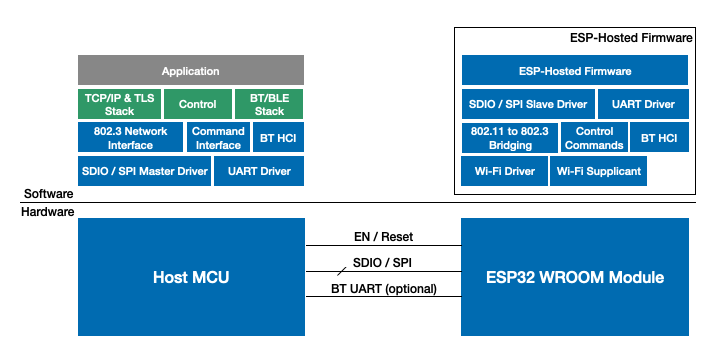
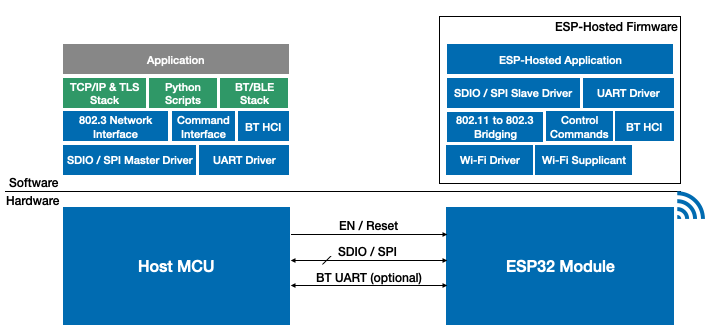
Update documentation
-- Add more information about design
	-- Ensure consistent naming of terminologies

Changed region(s): [[0.0, 0.0302, 0.9902, 0.997], [0.1857, 0.7553, 0.3404, 0.8459], [0.6188, 0.0604, 0.6498, 0.0906]]

diff --git a/docs/Design.md b/docs/Design.md
@@ -1,13 +1,56 @@
+# Architecture
+Following diagram depicts s/w and h/w components that are part of ESP hosted solution. This document briefly explains the software components that are part of this system.
+
+![alt text](docs/esp-hosted-block-diagram.png "ESP-Hosted Block Diagram").
+
+## The Host Software
+The host software consists of the host driver and a control path implementation.
+
+### The Host Driver
+The host driver consists of following:
+1. 802.3 Network Interface
+- The driver registers a network interface with linux kernel and implements a data path to allow exchange of 802.3 frames with ESP module.
+- It provides 2 network interfaces to host: ethsta0 and ethap0.
+- Through ethsta0 interface, the host can interact with external Access point and other wi-fi stations.
+- Through ethap0 interface, the host can interact with wi-fi clients connected to soft AP created on ESP module.
+
+2. BT HCI Interface
+- BT/BLE is supported over SDIO or over UART. This section is applicable only when BT/BLE is supported over SDIO.
+- The host driver registers a hci interface with linux kernel.
+- The host can access BT/BLE functionality of ESP module over this interface.
+
+3. Serial driver
+- This registers a serial interface with linux kernel.
+- This is used as a control interface to configure wi-fi functionality of ESP module
+
+4. SDIO driver
+- This implements a data path over SDIO interface
+- This data path is used by above components in order to interact with ESP module
+- The communication protocol is explained in further sections of this document
+
+### Control Path
+- This consists of custom commands which are based on protobufs.
+- These commands are used to control and configure wi-fi functionality on ESP module
+- It makes use of serial interface created by host driver
+
+## ESP Firmware
+This includes ESP hosted application and existing peripheral drivers from esp-idf repo. ESP hosted application performs following activities:
+- It implements SDIO driver which essentially makes ESP module a SDIO slave device.
+- It opens up communication path between a host (e.g. Raspberry-Pi) and various functional blocks on ESP module (such as Wi-Fi, BT/BLE etc)
+- It implements control interface commands which are used to control and configure Wi-Fi.
+- It sets up UART transport layer for support BT/BLE over UART
+- It utilizes following drivers from esp-idf repository
+	- Wi-Fi driver
+	- HCI controller driver
+	- SDIO Slave driver
+
 # Protocol Definition
-This driver is divided in 3 parts:
-1. Network driver - This part registers a network interface with linux kernel and implements netdev ops
-2. SDIO driver - This is a transport layer. It interacts with wlan module on ESP32 through sdio interface
-3. Serial driver - This provides a control interface through which wlan module on ESP32 can be controlled. This basically uses SDIO for low level transport.
+This section explains the communication protocol between a host and ESP module. As mentioned earlier, the basic transport layer is implemented over SDIO. BT/BLE is also supported over UART which follows standard UART protocol.
 
-The following section explains the protocol of SDIO driver i.e. transport layer.
-ESP32 module advertises 2 SDIO functions, of which function 1 implements WLAN slave device. Though function 2 is advertised, it is not in use.
+## SDIO transport layer
+ESP32 module advertises 2 SDIO functions. ESP hosted solution is implemented on function 1. Though function 2 is advertised, it is not in use.
 
-## Important registers provided by ESP32 wlan device
+Following are few important SDIO registers provided by ESP Module:
 * 0x3FF5508C: Interrupt vector used by host to interrupt slave
 ```
 bit 0: Open data path on slave device
@@ -17,7 +60,7 @@ bit 2: Reset SDIO queues on slave device
 * 0x3FF55058: Interrupt status register used by slave to interrupt host
 * 0x3FF55060: Accumulated value of data length sent by slave
 * 0x3FF55044: Accumulated number of buffers for receiving packets at slave
-* 0x3FF5506C: Device capabilities. Indicates features supported by esp32 device.
+* 0x3FF5506C: Device capabilities. Indicates features supported by ESP32 device.
 ```
 bit 0: WLAN support
 bit 1: BT supported over UART
@@ -26,7 +69,7 @@ bit 3: BT mode - BLE only mode
 bit 4: BT mode - BR/EDR only mode
 ```
 
-## Initialization of slave device
+### Initialization of slave device
 1. Soft reset sdio slave
 	1. Host resets sdio part of slave by setting bit 2 of register at 0x3FF5508C
 	2. This generates an interrupt for slave device, on which firmware on slave resets its sdio related data structures.
@@ -37,7 +80,7 @@ bit 4: BT mode - BR/EDR only mode
 	1. Host sets 0th bit of 0x3FF5508C interrupt register
 	2. This indicates slave that host is ready for data transmission
 
-## Data transfer from Host to slave
+### Data transfer from Host to slave
 1. Get Buffer count
 	1. Host reads the current buffer count from slave [0x3FF55044]
 	2. Based on that value, host calculates the number of available buffers at slave
@@ -46,7 +89,7 @@ bit 4: BT mode - BR/EDR only mode
 2. The host transfers data in multiples of 512 bytes and max data length per write operation is limited to buffer size [2048 bytes]
 3. Host then updates it's own counter that keeps track of number of buffers it has transmitted.
 
-## Data transfer from slave to host
+### Data transfer from slave to host
 1. Whenever slave has data to tranfser, it updates the length in 0x3FF55060 registers and generates an interrupt for host.
 2. On interruption, host reads interrupt status register [0x3FF55058]. Bit 23 of this register tells host that slave desires to send data.
 3. Host then gets the length set by slave by reading register mentioned in step 1. Based on previous received byte count and this length, host understands the actual length of data packet.
@@ -55,10 +98,10 @@ bit 4: BT mode - BR/EDR only mode
 
 `Note: Slave stays in blocked state during steps 1 to 4 [ i.e till host reads the data packet]`
 
-## Deinit slave device
+### Deinit slave device
 Host sets bit 1 of 0x3FF5508C interrupt register. This tells slave device to stop the data path.
 
-## Payload format for data transfer
+### Payload format for data transfer
 * Host and slave makes use of 8 byte payload header which preceeds every data packet. This payload header provides additional information about the data packet. Based on this header, host/slave consumes transmitted data packet.
 
 * Payload format is as below

diff --git a/docs/Getting_started.md b/docs/Getting_started.md
@@ -19,11 +19,11 @@ User can make use of these python functions to get access of wifi functionalitie
 python test.py
 ```
 
-Go to `host/host_control/` folder and run `./rpi_init.sh` to compile and insert ESP32 host driver on rpi. This script also creates `/dev/esps0` which is used as a WLAN/BT/BLE control interface.
+Go to `host/host_control/` folder and run `./rpi_init.sh` to compile and insert host driver on Raspberry-Pi. This script also creates `/dev/esps0` which is used as a WLAN control interface.
 
 There are six python scripts for station connect to AP, station disconnect from AP ,start softAP, stop softAP, scan available APs and list stations connected to softAP.
 
-1. `station_connect.py` is a python script which configures ESP32 in `station mode`, connects rpi to external AP with credentials the user has provided. Also it ups the station interface and runs DHCP client. User should provide parameters like ssid, password, mac address of AP(Its optional parameter).
+1. `station_connect.py` is a python script which configures ESP32 in `station mode`, connects Raspberry-Pi to external AP with credentials the user has provided. Also it ups the station interface and runs DHCP client. User should provide parameters like ssid, password, mac address of AP(Its optional parameter).
 
 ```
 ex. python station_connect.py 'xyz' 'xyz123456' --bssid='e5:6c:67:3c:cf:65'
@@ -41,7 +41,7 @@ python station_disconnect.py
 ex. python softap_config.py 'xyz' 'xyz123456' 1 3 --max_conn=4 --ssid_hidden=0 --bw=1
 ```
 ---
-Note: User can see ethap0 interface is up, using _ifconfig_. To start data connection, user needs to setup a DHCP server on rpi or set static IP address for AP interface i.e. ethap0
+Note: User can see ethap0 interface is up, using _ifconfig_. To start data connection, user needs to setup a DHCP server on Raspberry-Pi or set static IP address for AP interface i.e. ethap0
 
 ---
 4. `softap_stop.py` is a python script to stop ESP32 softap. This script will change wifi mode to `null` if only softAP is running or to `station` mode if softAP and station both are on. Now ethap0 interface is down.
@@ -53,10 +53,6 @@ ex. python softap_stop.py
 ```
 ex. python ap_scan_list.py
 ```
----
-Note: To start data connection, user needs to setup a DHCP server on rpi or set static IP address for AP interface i.e. ethap0
-
----
 6. `connected_stations_list.py` is a python script that returns list of mac addresses of stations connected to softAP.
 
 ```
@@ -72,26 +68,25 @@ TCP Rx: 12 Mbps
 ```
 
 ## For Bluetooth/BLE functionality
+- Ensure that bluez is installed on Raspberry-Pi and it is downloaded in source format as well. Please refer [Setup](docs/Setup.md) instructions for more details.
+- In following test, Android device was used as a BT/BLE test device. For BLE testing, [nRF connect for mobile APP](https://play.google.com/store/apps/details?id=no.nordicsemi.android.mcp&hl=en_IN) was used.
 
-Go to `host/host_control/` folder to run following script.
+- Go to `host/host_control/` folder to run following script.
 
 ### UART based setup
-1. Execute `./rpi_init.sh btuart` to prepare RPi for Bluetooth operation
-2. Execute `hciattach` command as below to add hci interface
+1. Execute `./rpi_init.sh btuart` to prepare Raspberry-Pi for Bluetooth operation
+2. Execute `hciattach` command as below to add hci interface (i.e. hciX)
 ```
 $ sudo hciattach -s 115200 /dev/serial0 any 115200 flow
 ```
 
 ### SDIO based setup
-Execute `./rpi_init.sh` to prepare RPi for SDIO+BT operation.
-HCI interface will be available for use as soon as host driver detects esp32 device over SDIO interface.
+Execute `./rpi_init.sh` to prepare Raspberry-Pi for SDIO+BT operation.
+HCI interface (i.e hciX) will be available for use as soon as host driver detects ESP32 module over SDIO interface.
 User can use standard hci utilities over this interface to make use of BT/BLE feature.
 
-### For Testing of BT/BLE connection
-
-We have used [nRF connect for mobile APP](https://play.google.com/store/apps/details?id=no.nordicsemi.android.mcp&hl=en_IN) for testing of BT/BLE.
-
-### GATT server
+### BT/BLE Test procedure
+#### GATT server
 
 1. run `hciconfig`. Output should show only one `SDIO` interface.
 ```
@@ -105,22 +100,22 @@ hci0:	Type: Primary  Bus: SDIO
 
 3. Now start advertising. Run `sudo hciconfig hci0 leadv`.
 
-4. Now esp32's mac address should be listed in scan list of mobile app.
+4. Now ESP32's mac address should be listed in scan list of mobile app.
 
-5. Connect to esp32's mac address with mobile as gatt client.
+5. Connect to ESP32's mac address with mobile as gatt client.
 
 6. User can check read/write characteristics fields in `Heart Rate` service.
 
-### GATT Client
+#### GATT Client
 
-1. User can run `./test/example-gatt-client` on rpi. This will start gatt client on Raspberry-Pi.
+1. User can run `./test/example-gatt-client` on Raspberry-Pi. This will start gatt client on Raspberry-Pi.
 
-2. User will receive `Heart Rate Measurement` field in rpi console.
+2. User will receive `Heart Rate Measurement` field in Raspberry-Pi console.
 
-### BT scan
+#### BT scan
 
 User can run `hcitool scan` for BT device scanning.
 
-### BLE scan
+#### BLE scan
 
 User can run `hcitool lescan` for BLE device scanning.

diff --git a/docs/Setup.md b/docs/Setup.md
@@ -2,7 +2,7 @@
 Currently we support ESP32 WROVER-Kit with Raspberry-Pi (3 Model B+, 4 Model B) for evaluation with Raspbian operating system.
 
 ## Raspberry-Pi Software Setup
-We recommend full version Raspbian install on Raspberry-Pi to ensure easy driver compilation. In addition for driver compilation, kernel headers are required. Please install them as:
+We recommend full version Raspbian install on Raspberry-Pi to ensure easy driver compilation. Please make sure to use kernel version `v4.19` and above. Prior kernel versions may work, but are not tested. Kernel headers are required for driver compilation. Please install them as:
 ```sh
 $ sudo apt update
 $ sudo apt-get install raspberrypi-kernel-headers
@@ -38,7 +38,7 @@ make sure Raspberry-Pi should have `bluetoothctl`, `bluetoothd`, `hcitool`, `hci
 ### Hardware Setup/Connections
 In this setup, ESP32 board acts as a SDIO peripheral and provides Wi-FI capabilities to host. Please connect ESP32 board to Raspberry-Pi with jumper cables as mentioned below. It may be good to use small length cables to ensure signal integrity.
 
-| RPi Pin | ESP32 Pin | Function |
+| Raspberry-Pi Pin | ESP32 Pin | Function |
 |:-------:|:---------:|:--------:|
 | 13 | IO13 | DAT3 |
 | 15 | IO14 | CLK |
@@ -48,11 +48,11 @@ In this setup, ESP32 board acts as a SDIO peripheral and provides Wi-FI capabili
 | 37 | IO12 | DAT2 |
 | 39 | GND | GND |
 
-RPI pinout can be found [here!](https://pinout.xyz/pinout/sdio)
+Raspberry-Pi pinout can be found [here!](https://pinout.xyz/pinout/sdio)
 
 Setup image is here.
 
-![alt text](rpi_esp_setup.jpeg "setup of RPI as host and ESP32 as slave")
+![alt text](rpi_esp_setup.jpeg "setup of Raspberry-Pi as host and ESP32 as slave")
 
 Power ESP32 and Raspberry Pi separately with a power supply that provide sufficient power. ESP32 can be powered through PC using micro-USB cable.
 
@@ -68,7 +68,7 @@ Please reboot Raspberry-Pi after changing this file.
 ### Hardware Setup/Connections
 In this setup, ESP32 board provides Bluetooth/BLE capabilities to host over UART interface. Please connect ESP32 board to Raspberry-Pi with jumper cables as below. As mentioned above, use small length cables.
 
-| RPi Pin Function | RPi Pin | ESP32 Pin | ESP32 Pin Function |
+| Raspberry-Pi Pin Function | Raspberry-Pi Pin | ESP32 Pin | ESP32 Pin Function |
 |:-------:|:--------:|:---------:|:--------:|
 | RX | 10 | IO5 | TX |
 | TX | 8 | IO18 | RX |
@@ -104,7 +104,7 @@ dwc_otg.lpm_enable=0 console=tty1 root=PARTUUID=5c2c80d1-02 rootfstype=ext4 elev
 4. Reboot Raspberry-Pi
 
 ## ESP32 Setup
-The control path between Raspberry-Pi and ESP32 is based on `protobuf`. For that `protocomm` layer from ESP-IDF is used. Make sure ESP-IDF on branch `release/v4.0`. Run following command on esp32 to make `protocomm_priv.h` available for control path.
+The control path between Raspberry-Pi and ESP32 is based on `protobuf`. For that `protocomm` layer from ESP-IDF is used. Make sure ESP-IDF on branch `release/v4.0`. Run following command on ESP32 to make `protocomm_priv.h` available for control path.
 ```
 git mv components/protocomm/src/common/protocomm_priv.h components/protocomm/include/common/
 ```

diff --git a/docs/Troubleshoot.md b/docs/Troubleshoot.md
@@ -1,13 +1,13 @@
 # Troubleshoot instructions
 ## Host fails to detect esp device
-1. Make sure to use esp32 wrover kit. If you are using a different esp32 module/board, please check pull up requirements (https://docs.espressif.com/projects/esp-idf/en/latest/esp32/api-reference/peripherals/sd_pullup_requirements.html)
+1. Make sure to use ESP32 wrover kit. If you are using a different ESP32 module, please check pull up requirements (https://docs.espressif.com/projects/esp-idf/en/latest/esp32/api-reference/peripherals/sd_pullup_requirements.html)
 2. Recheck jumper cable connections. Try to use cables that are smaller in length(less than 10 cm should work).
 3. Make sure that driver module is loaded.
 ```
 $ sudo lsmod | grep esp32
 esp32                  28672  0
 ```
-4. Check if host could perform sdio level enumeration. Assuming esp32 gets detected as mmc1, execute following and check the output.
+4. Check if host could perform sdio level enumeration. Assuming ESP32 gets detected as mmc1, execute following and check the output.
 ```
 $ sudo cat /sys/devices/platform/soc/fe300000.mmc/mmc_host/mmc1/mmc1\:0001/mmc1\:0001\:1/uevent
 SDIO_CLASS=00
@@ -27,7 +27,7 @@ In case issue persists, collect and send following logs to Espressif support.
 * ESP32 console log
 
 ## WLAN datapath does not work
-1. Check esp32 console log for wlan disconnect event. For reconnection, execute provided python script.
+1. Check ESP32 console log for wlan disconnect event. For reconnection, execute provided python script.
 2. Execute `route -n` command on host and verify that appropriate routes are configured.
 3. In case issue persists, collect and send following logs to Espressif support.
 * dmesg log on host

diff --git a/README.md b/README.md
@@ -4,6 +4,16 @@ The below diagram shows hardware and software block diagram for a typical system
 
 ![alt text](docs/esp-hosted-block-diagram.png "ESP-Hosted Block Diagram")
 
+ESP hosted solution provides following WLAN and BT/BLE features to host:
+- WLAN Features:
+	- 802.11b/g/n
+	- WLAN Station
+	- WLAN Soft AP
+
+- BT/BLE Features:
+	- v4.2 BR/EDR and BLE
+
+
 # Getting Started 
 
 [Hardware Setup and Compilation](docs/Setup.md)
